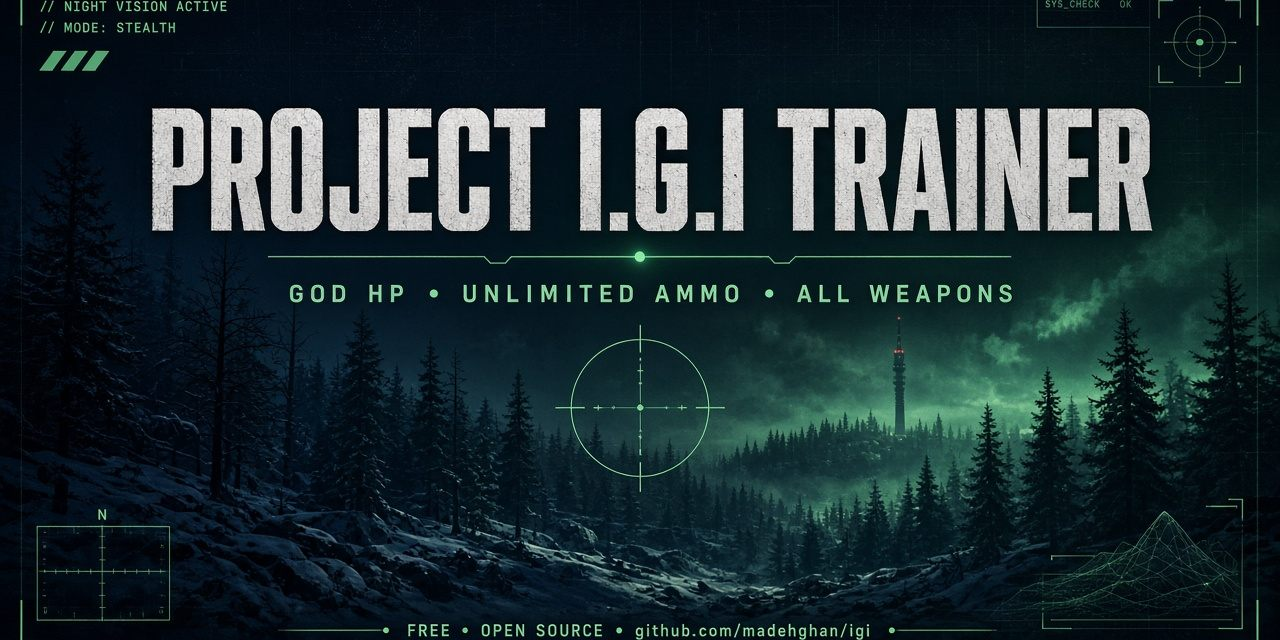
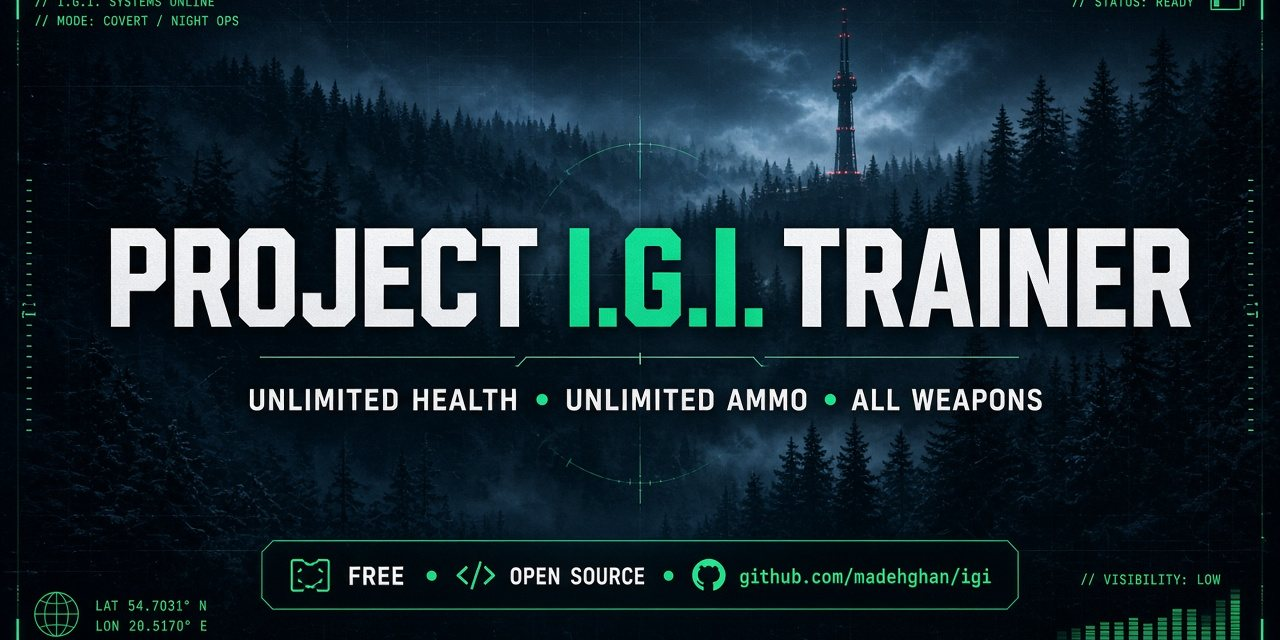
Rename health feature to Unlimited Health / جان نامحدود and refresh poster
No third-party tool branding on the public page.

diff --git a/IgiTrainer.cs b/IgiTrainer.cs
@@ -1,6 +1,6 @@
 // Project I.G.I Trainer — free for everyone
 // GitHub: https://github.com/madehghan/igi
-// Features: god health, unlimited ammo, give all weapons
+// Features: unlimited health, unlimited ammo, give all weapons
 // EN / FA bilingual UI
 
 using System;
@@ -110,14 +110,14 @@ sealed class MainForm : Form {
     hint = new Label {
       AutoSize = false, Left = 12, Top = 8, Width = 530, Height = 78,
       Text =
-        "EN: Unlimited ammo (official flag) · God health (NaN) · All weapons (Ctrl+Shift+P)\n" +
-        "FA: تیر نامحدود · جان خداگونه · همه سلاحها (خودکار یا دکمه)\n" +
+        "EN: Unlimited ammo · Unlimited health · All weapons (Ctrl+Shift+P)\n" +
+        "FA: تیر نامحدود · جان نامحدود · همه سلاحها (خودکار یا دکمه)\n" +
         "Put IgiTrainer.exe next to IGI.exe  |  فایل را کنار IGI.exe بگذارید"
     };
     Controls.Add(hint);
 
-    chkGod = new CheckBox { Text = "God HP / جان خداگونه", Left = 12, Top = 92, Width = 200, Checked = true };
-    chkAmmo = new CheckBox { Text = "Unlimited Ammo / تیر نامحدود", Left = 220, Top = 92, Width = 250, Checked = true };
+    chkGod = new CheckBox { Text = "Unlimited Health / جان نامحدود", Left = 12, Top = 92, Width = 250, Checked = true };
+    chkAmmo = new CheckBox { Text = "Unlimited Ammo / تیر نامحدود", Left = 270, Top = 92, Width = 250, Checked = true };
     chkGod.CheckedChanged += delegate { godEnabled = chkGod.Checked; };
     chkAmmo.CheckedChanged += delegate { ammoEnabled = chkAmmo.Checked; };
     Controls.Add(chkGod); Controls.Add(chkAmmo);
@@ -398,7 +398,7 @@ sealed class MainForm : Form {
               WriteF32(player + OffHealth, float.NaN);
               writeCount++;
               lastGodWriteUtc = DateTime.UtcNow;
-              Log("NaN god HP");
+              Log("unlimited health");
             }
           }
 

diff --git a/README.md b/README.md
@@ -1,5 +1,5 @@
 <p align="center">
-  <img src="assets/poster.jpg" alt="Project I.G.I Trainer — God HP, Unlimited Ammo, All Weapons" width="100%">
+  <img src="assets/poster.jpg" alt="Project I.G.I Trainer — Unlimited Health, Unlimited Ammo, All Weapons" width="100%">
 </p>
 
 <p align="center">
@@ -13,15 +13,15 @@
 <h1 align="center">Project I.G.I Trainer (Free / رایگان)</h1>
 
 <p align="center">
-  <b>God HP · Unlimited Ammo · All Weapons</b><br>
-  جان خداگونه · تیر نامحدود · همه سلاحها<br>
+  <b>Unlimited Health · Unlimited Ammo · All Weapons</b><br>
+  جان نامحدود · تیر نامحدود · همه سلاحها<br>
   <a href="https://github.com/madehghan/igi">github.com/madehghan/igi</a>
 </p>
 
 Free open-source **single-player trainer** for classic **Project I.G.I (I'm Going In)** / **پروژه آیجیآی**.  
 One click. No complicated install. Enjoy.
 
-**Keywords:** Project IGI trainer, IGI cheat, unlimited ammo IGI, god mode IGI, all weapons IGI, Project I.G.I I'm Going In trainer Windows, ترینر آی جی آی، تیر نامحدود آی جی آی، جان نامحدود IGI
+**Keywords:** Project IGI trainer, IGI cheat, unlimited ammo IGI, unlimited health IGI, all weapons IGI, Project I.G.I I'm Going In trainer Windows, ترینر آی جی آی، تیر نامحدود آی جی آی، جان نامحدود IGI
 
 ---
 
@@ -51,7 +51,7 @@ RUN.bat
 
 | | English | فارسی |
 |---|---------|--------|
-| ❤ | **God HP** — safe god-style health | **جان خداگونه** |
+| ❤ | **Unlimited Health** — you don’t go down | **جان نامحدود** |
 | 🔫 | **Unlimited Ammo** — official game flag + top-up | **تیر نامحدود** |
 | 🧰 | **All Weapons** — auto `Ctrl+Shift+P` after mission start | **همه سلاحها** |
 | 🖥 | Bilingual UI (EN / FA) | رابط دو زبانه |
